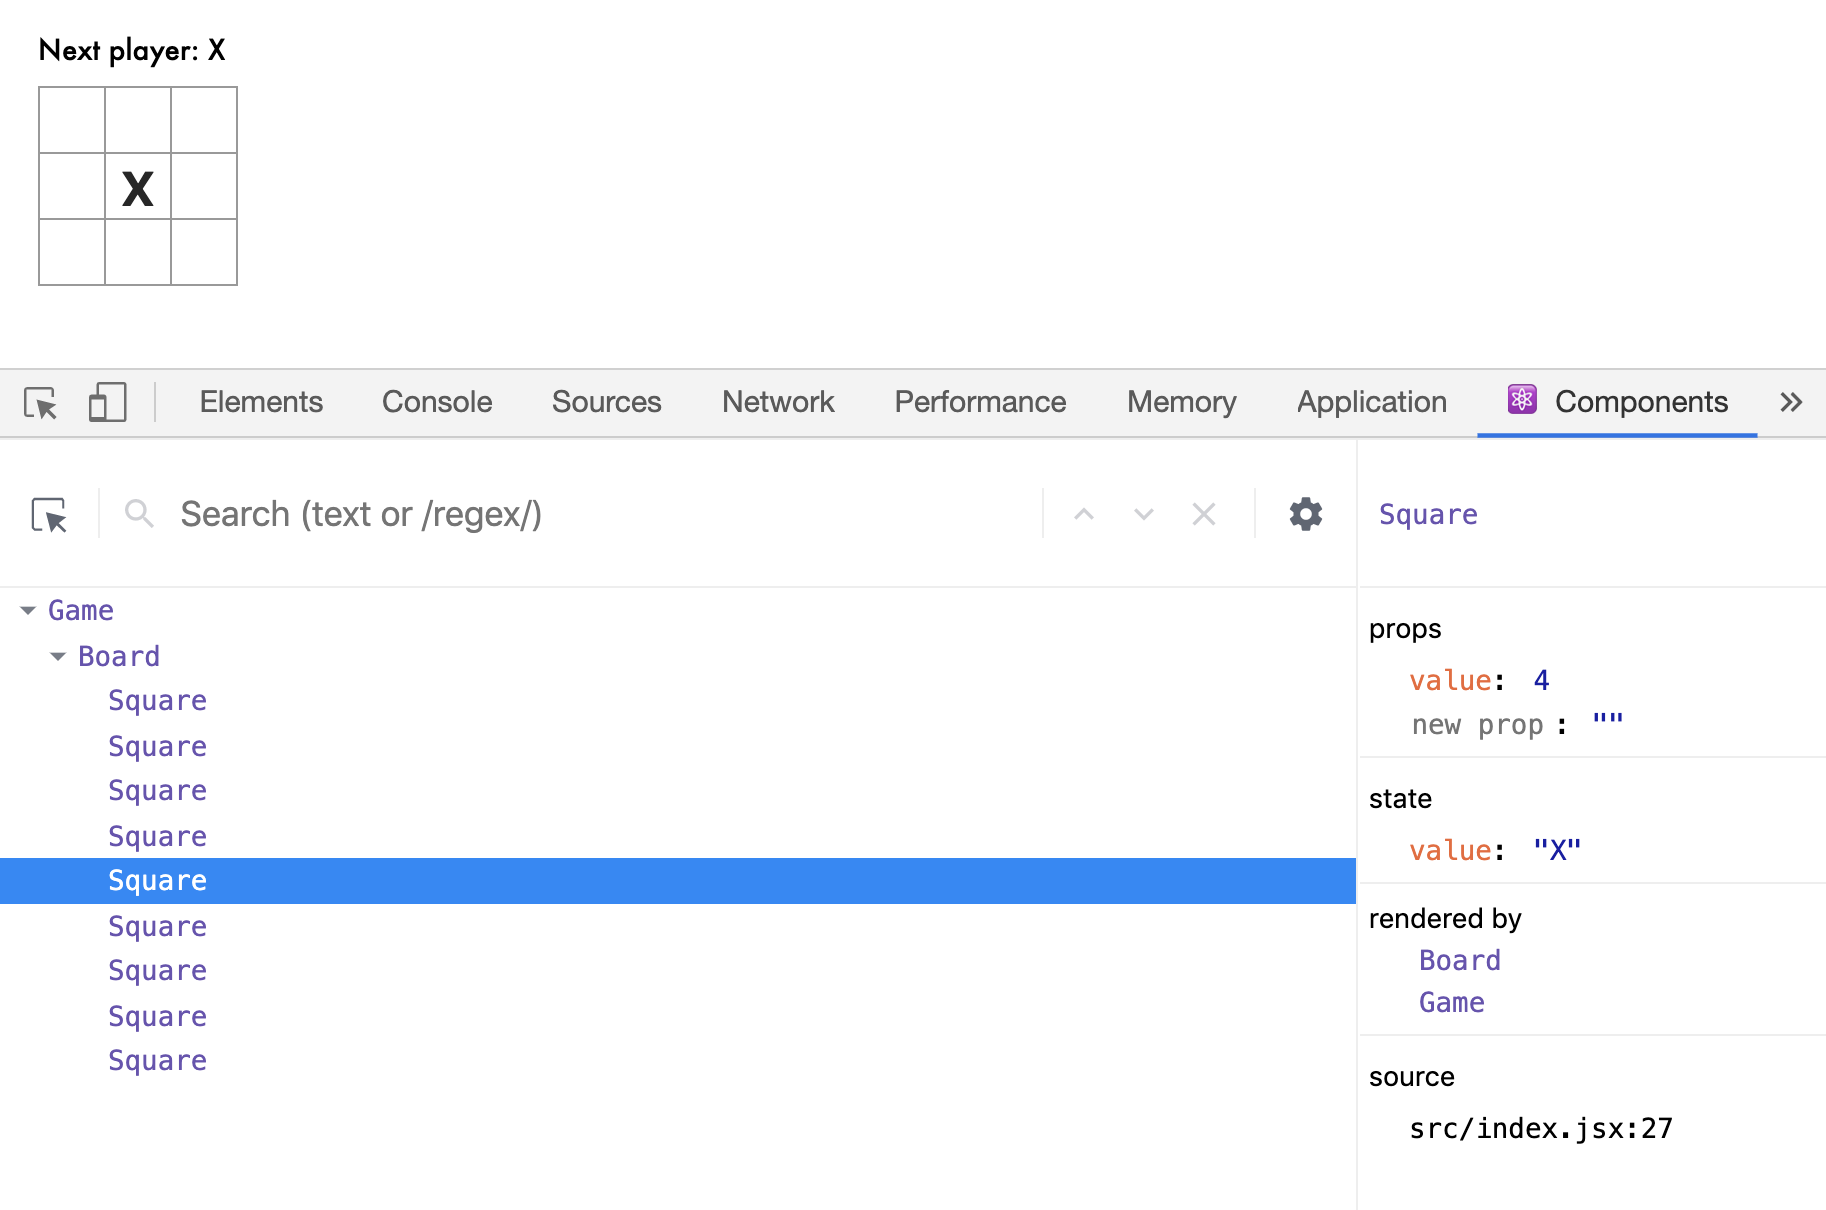
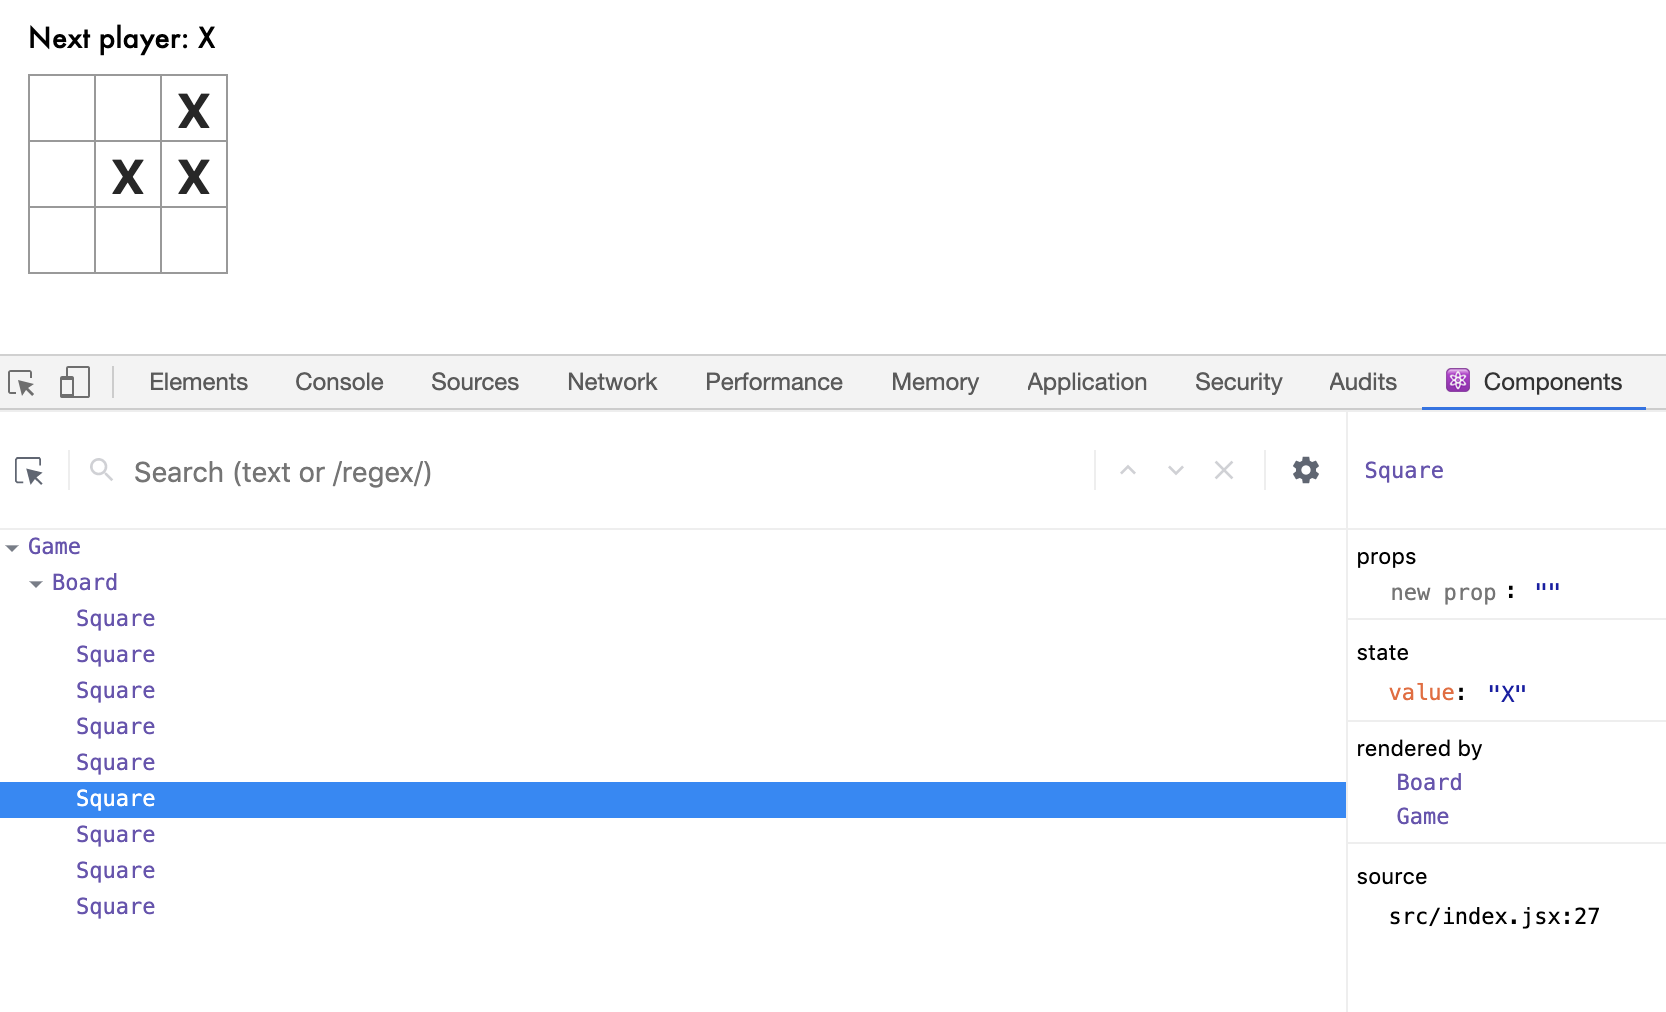
remove value confusion

diff --git a/react/my-app/src/index.jsx b/react/my-app/src/index.jsx
@@ -24,7 +24,7 @@ class Square extends React.Component {
 
 class Board extends React.Component {
   renderSquare(i) {
-    return <Square value={i}/>;
+    return <Square />;
   }
 
   render() {
